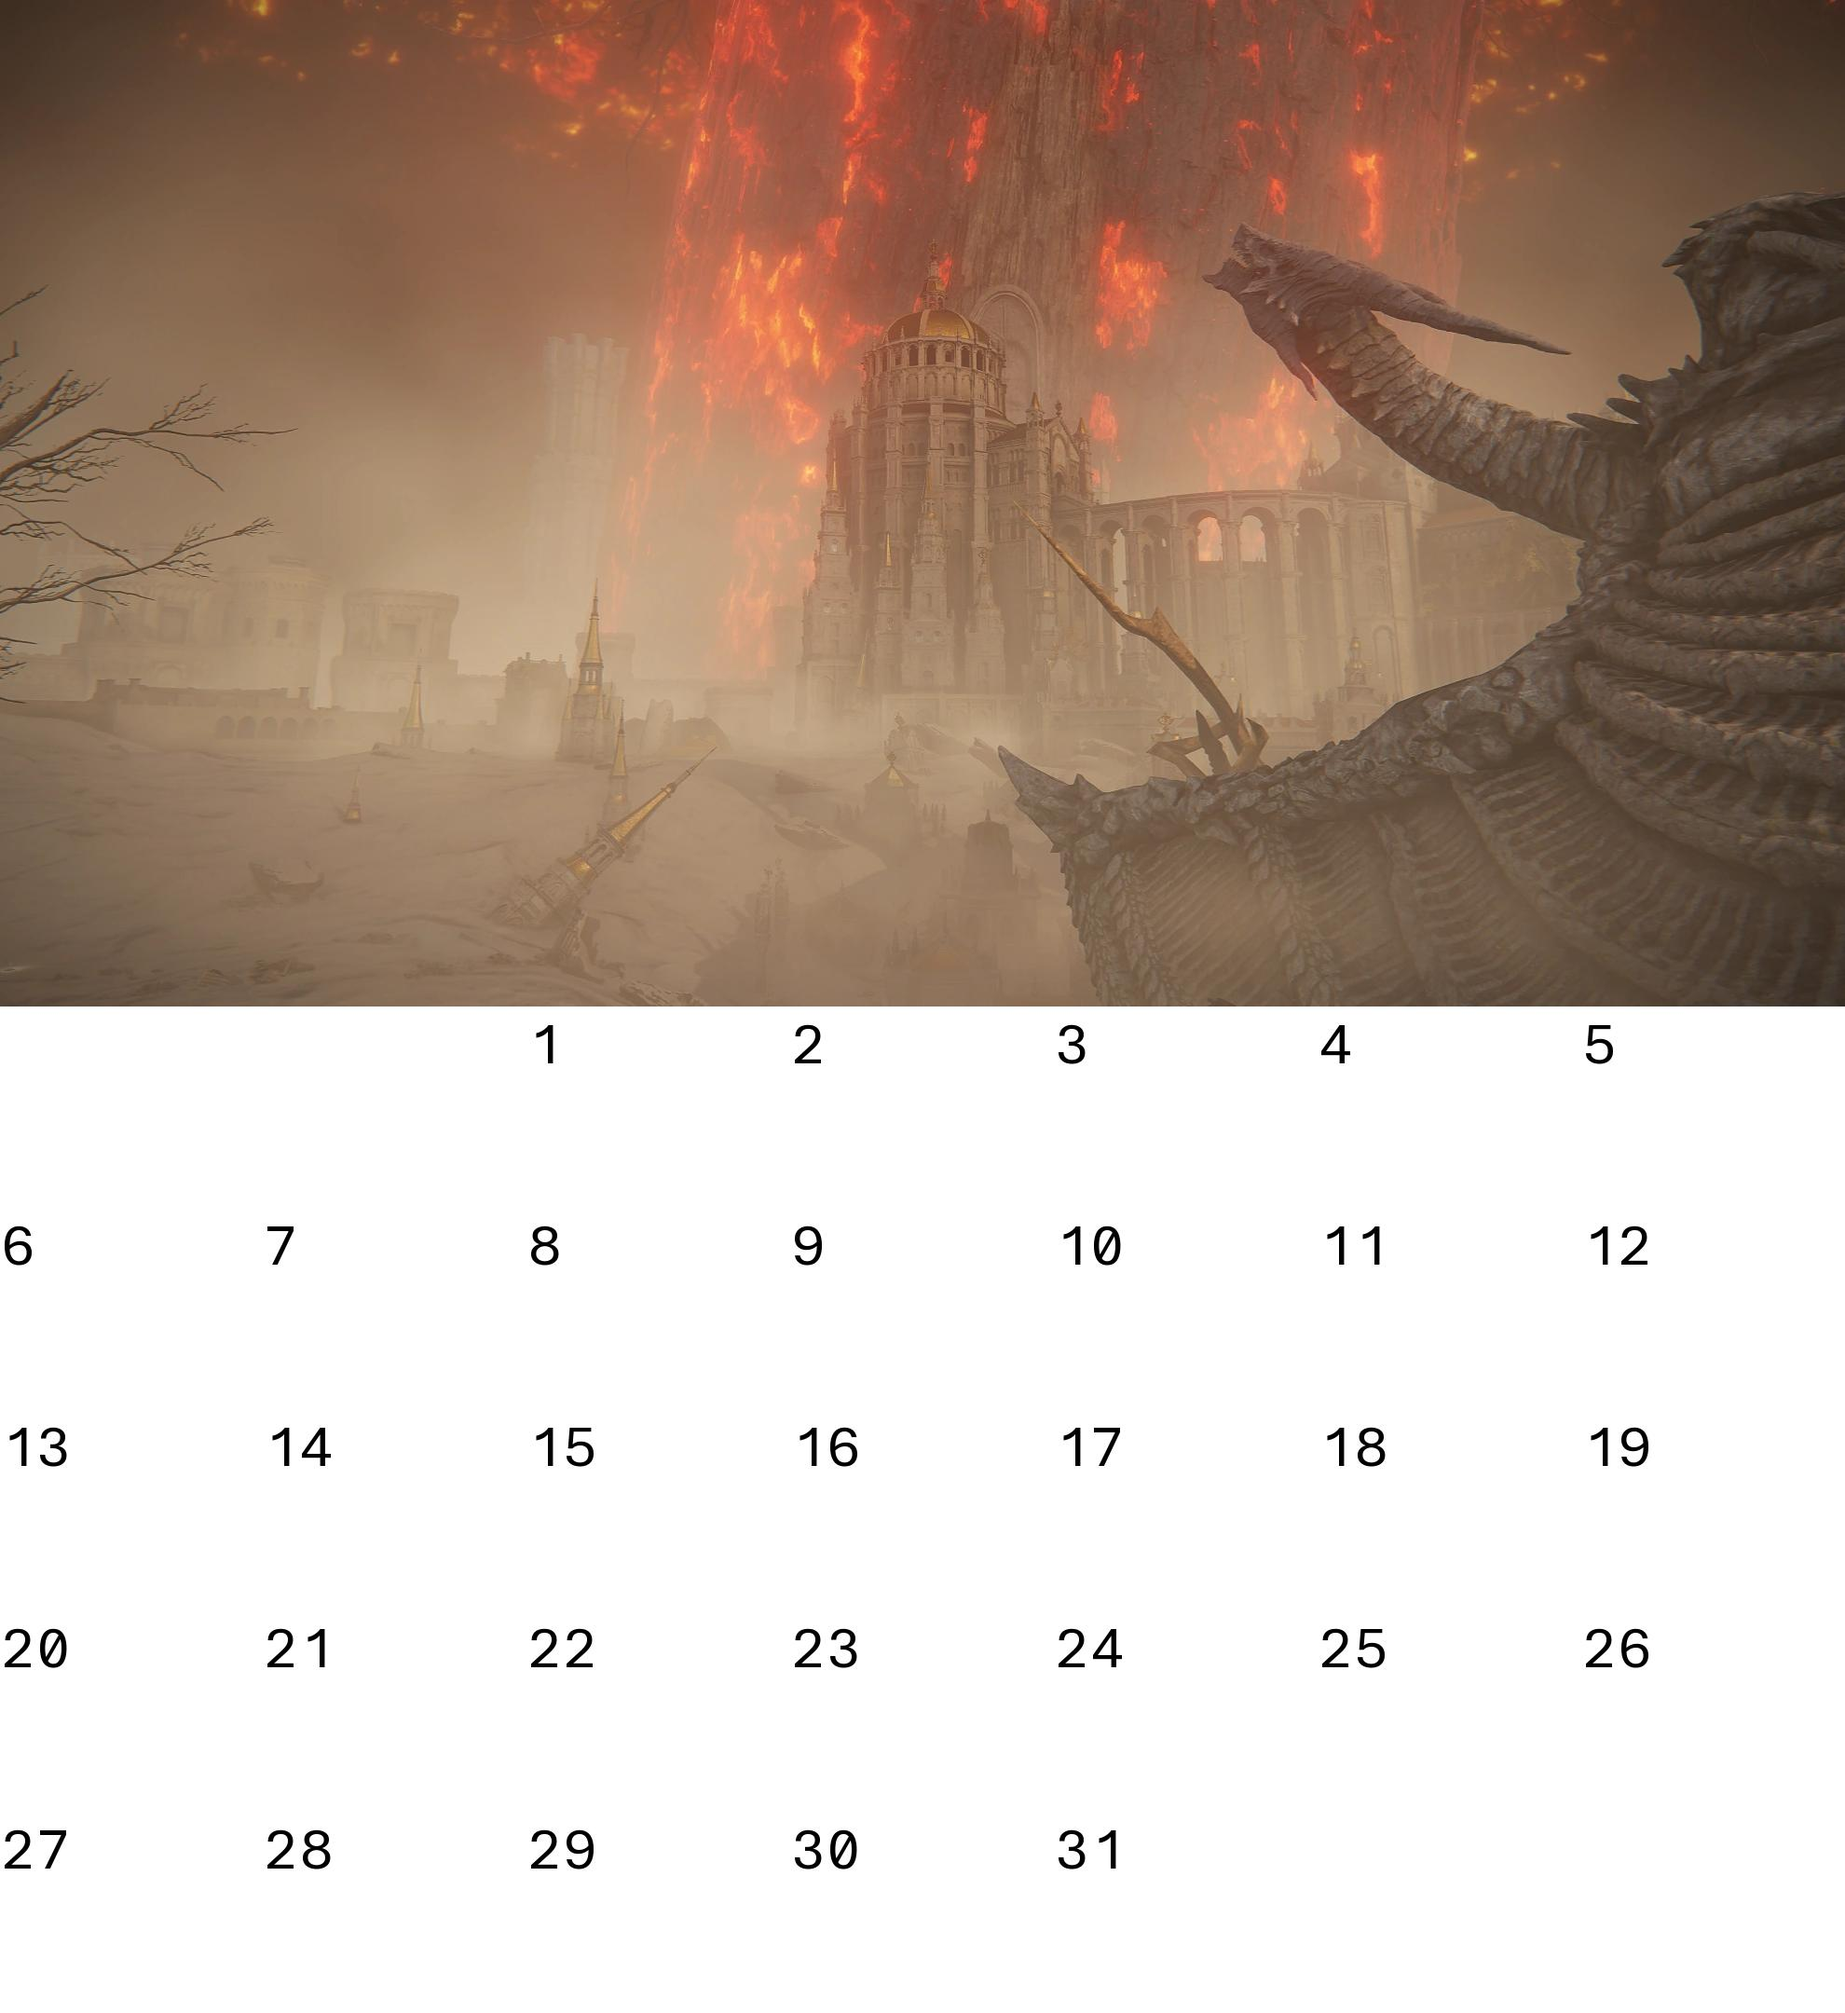
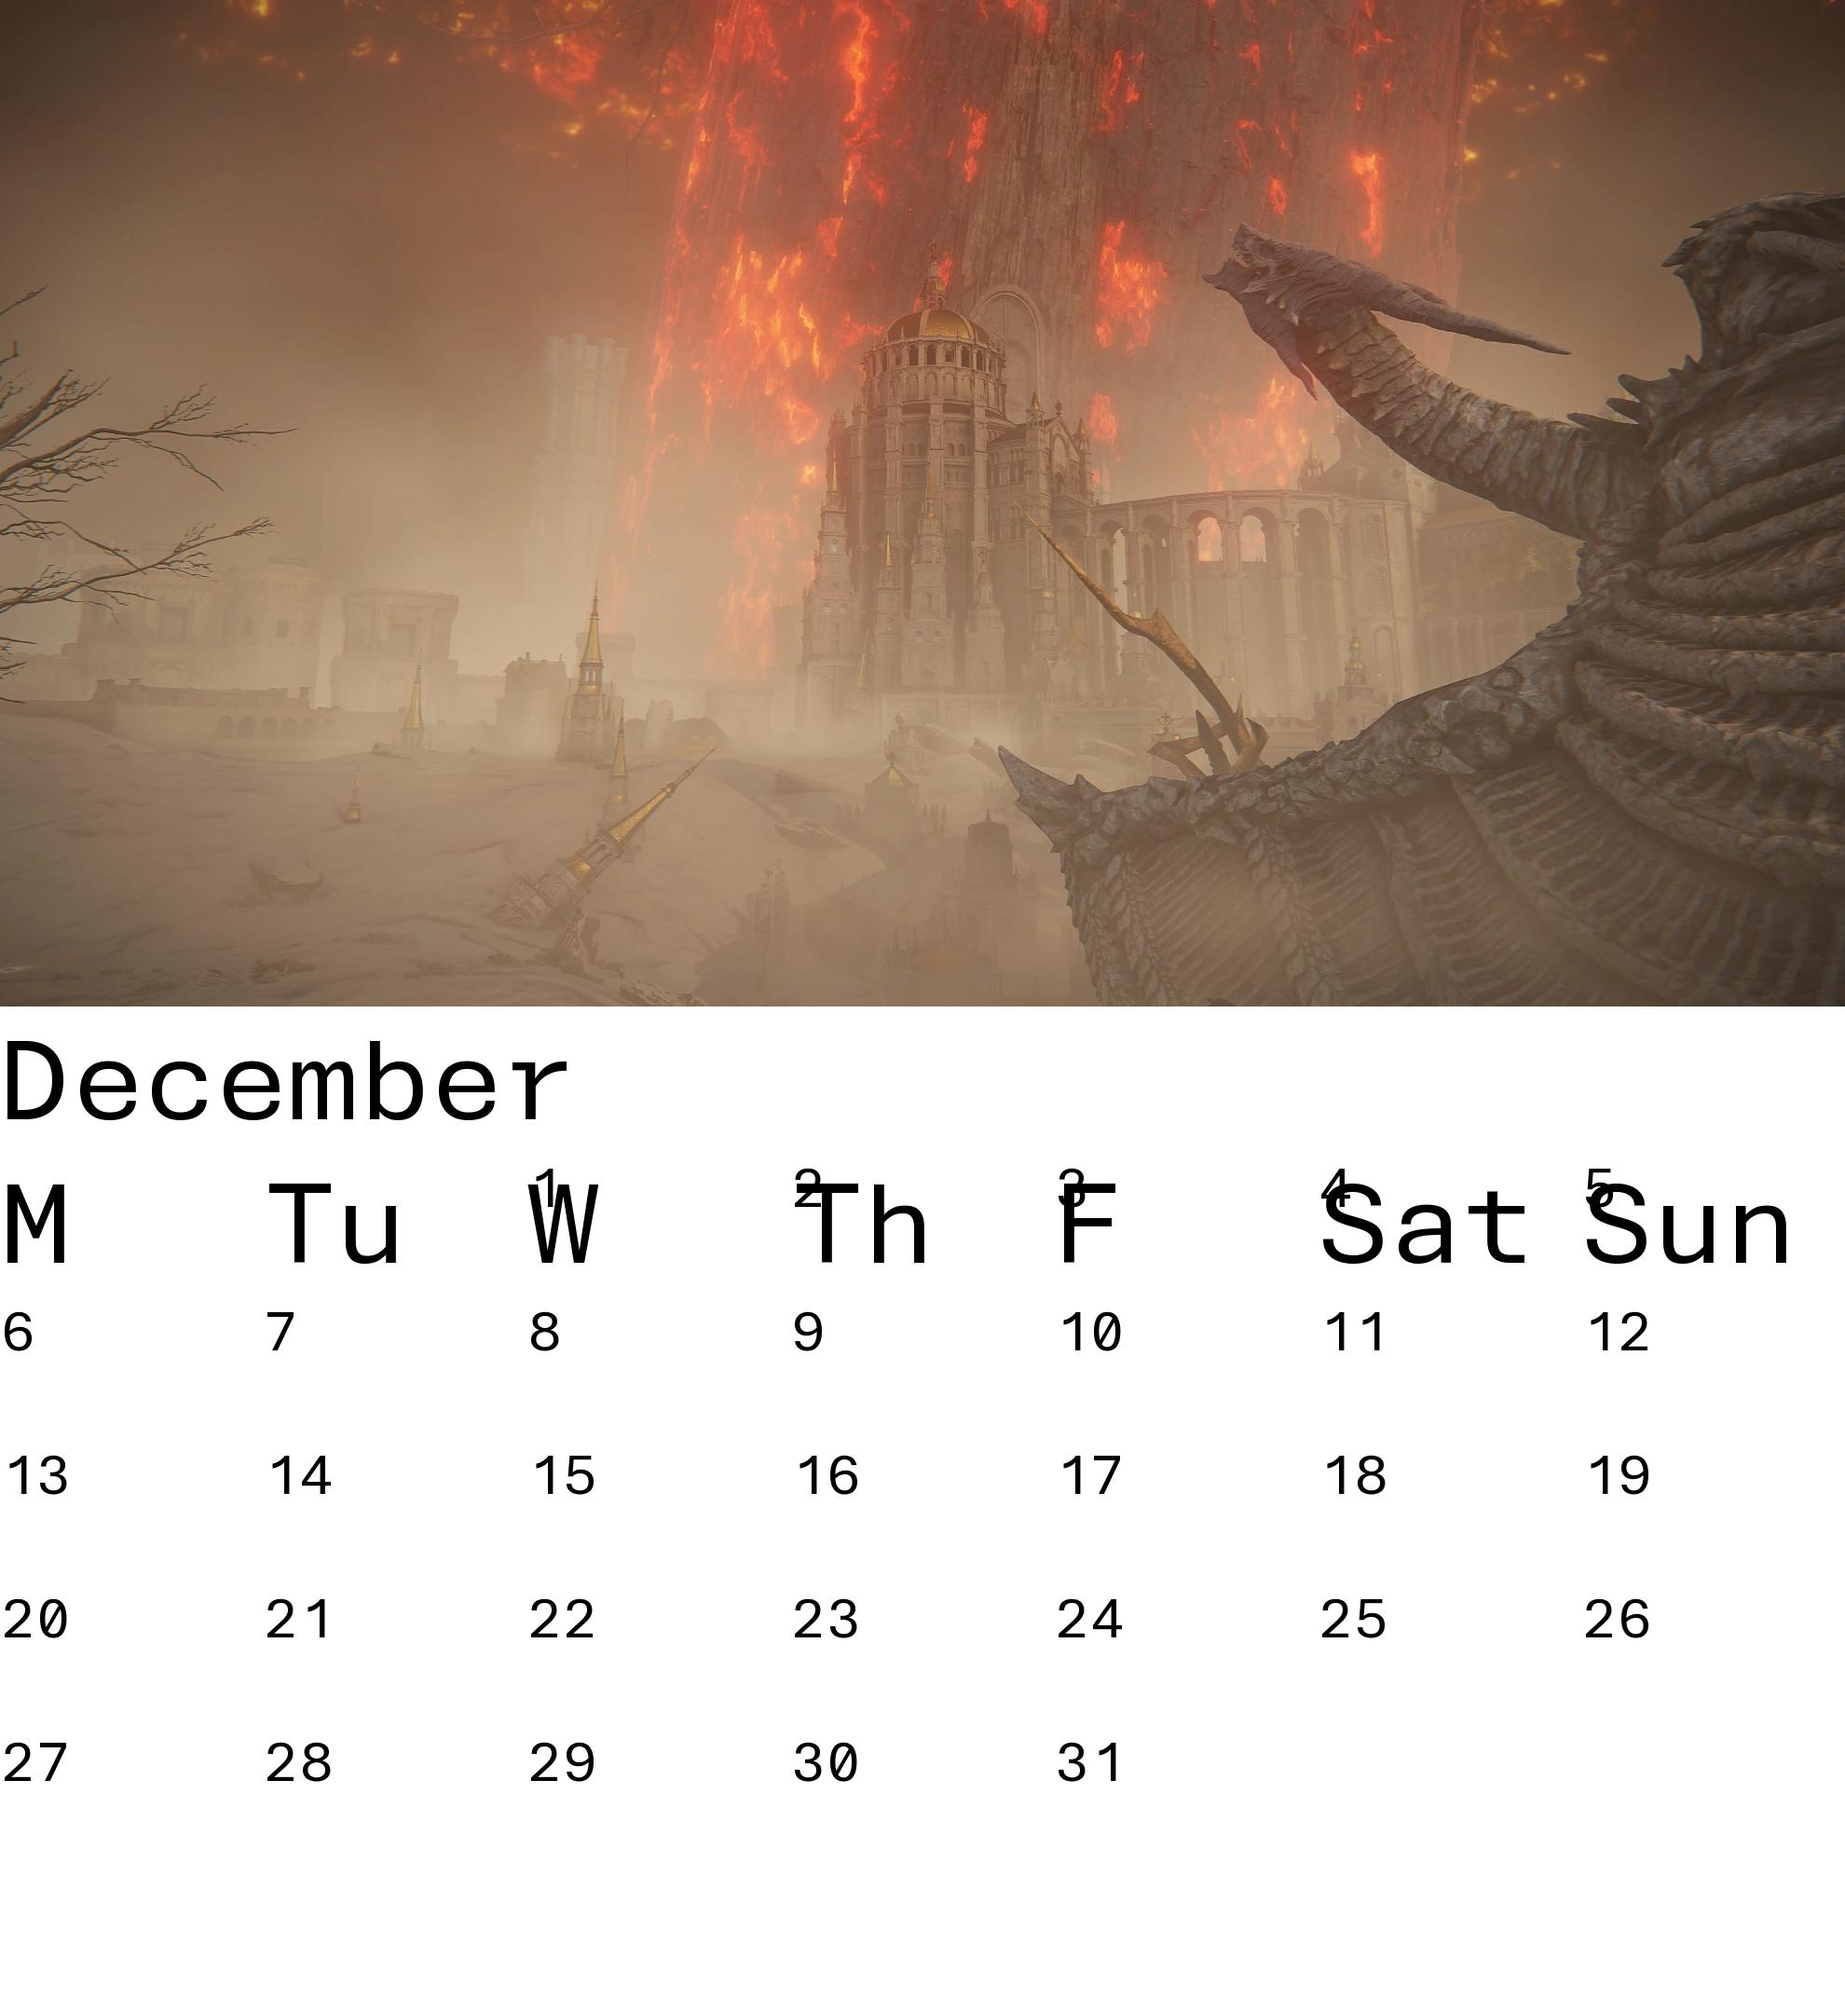
Set up displaying day of week

diff --git a/calendar-generator.py b/calendar-generator.py
@@ -21,17 +21,24 @@ def add_text(img, text, position, font_size, colour):
     return img
 
 def main():
+    weekday_initials=["M","Tu","W","Th","F","Sat","Sun"]
+
     background_images=get_images()
     background_images_index=0
 
     print(background_images_index)
-    img_arr=[]
-    img=Image.new("RGB", (1980, 1080*2), (255, 255, 255))
-    img.paste(background_images[background_images_index],(0,0))
 
     date:datetime = datetime(2027, 1, 1)
     last_month=1
     week=0
+    
+    img_arr=[]
+    img=Image.new("RGB", (1980, 1080*2), (255, 255, 255))
+    img.paste(background_images[background_images_index],(0,0))
+    img=add_text(img,date.strftime("%B"),(0,img.height/2),128,(0,0,0))
+    for i in range(len(weekday_initials)):
+        img=add_text(img,weekday_initials[i],(i*img.width/7,8*img.height/14),128,(0,0,0))
+    
     while date.year==2027:
         day=date.day
         weekday=date.weekday()
@@ -49,12 +56,16 @@ def main():
             
             img=Image.new("RGB", (1980, 1080*2), (255, 255, 255))
             img.paste(background_images[background_images_index],(0,0))
+            img=add_text(img,date.strftime("%B"),(0,img.height/2),128,(0,0,0))
+            for i in range(len(weekday_initials)):
+                img=add_text(img,weekday_initials[i],(i*img.width/7,8*img.height/14),128,(0,0,0))
 
         if weekday==0:
             week+=1
+
         x=(weekday*img.width)//7
-        y=img.height//2
-        y+=(week)*(img.height//10)
+        y=(8*img.height)//14
+        y+=(week)*(img.height//14)
 
         img=add_text(img,str(day),(x,y),64,(0,0,0))
         date=date+timedelta(days=1)
